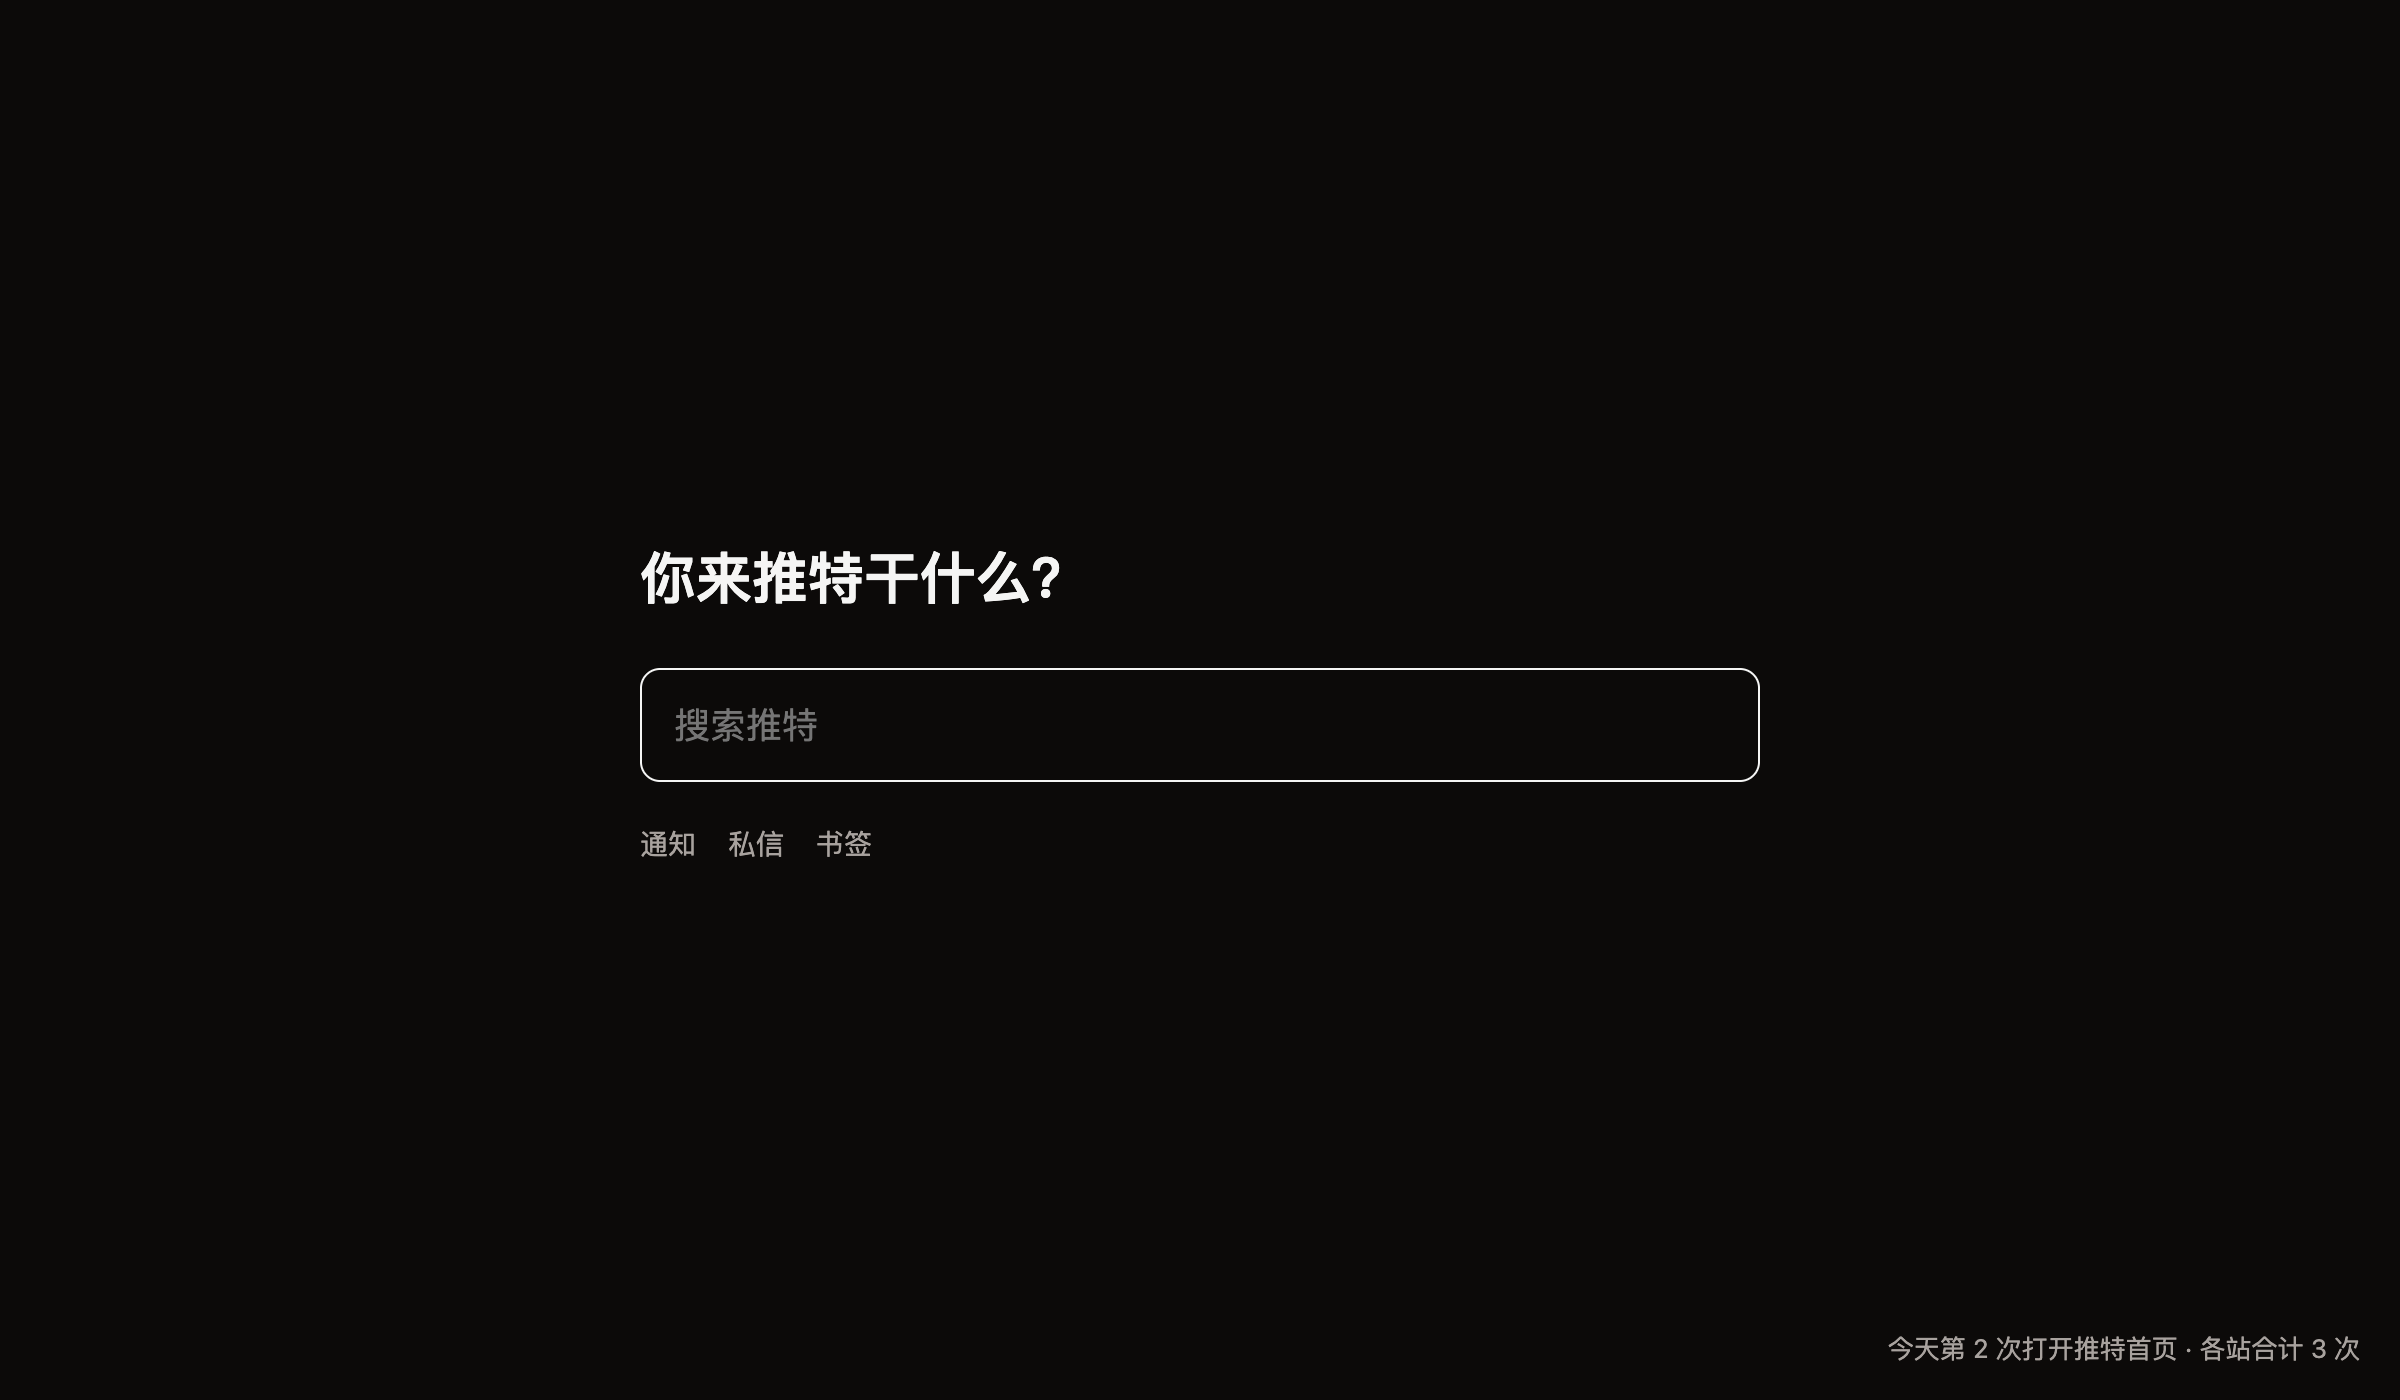
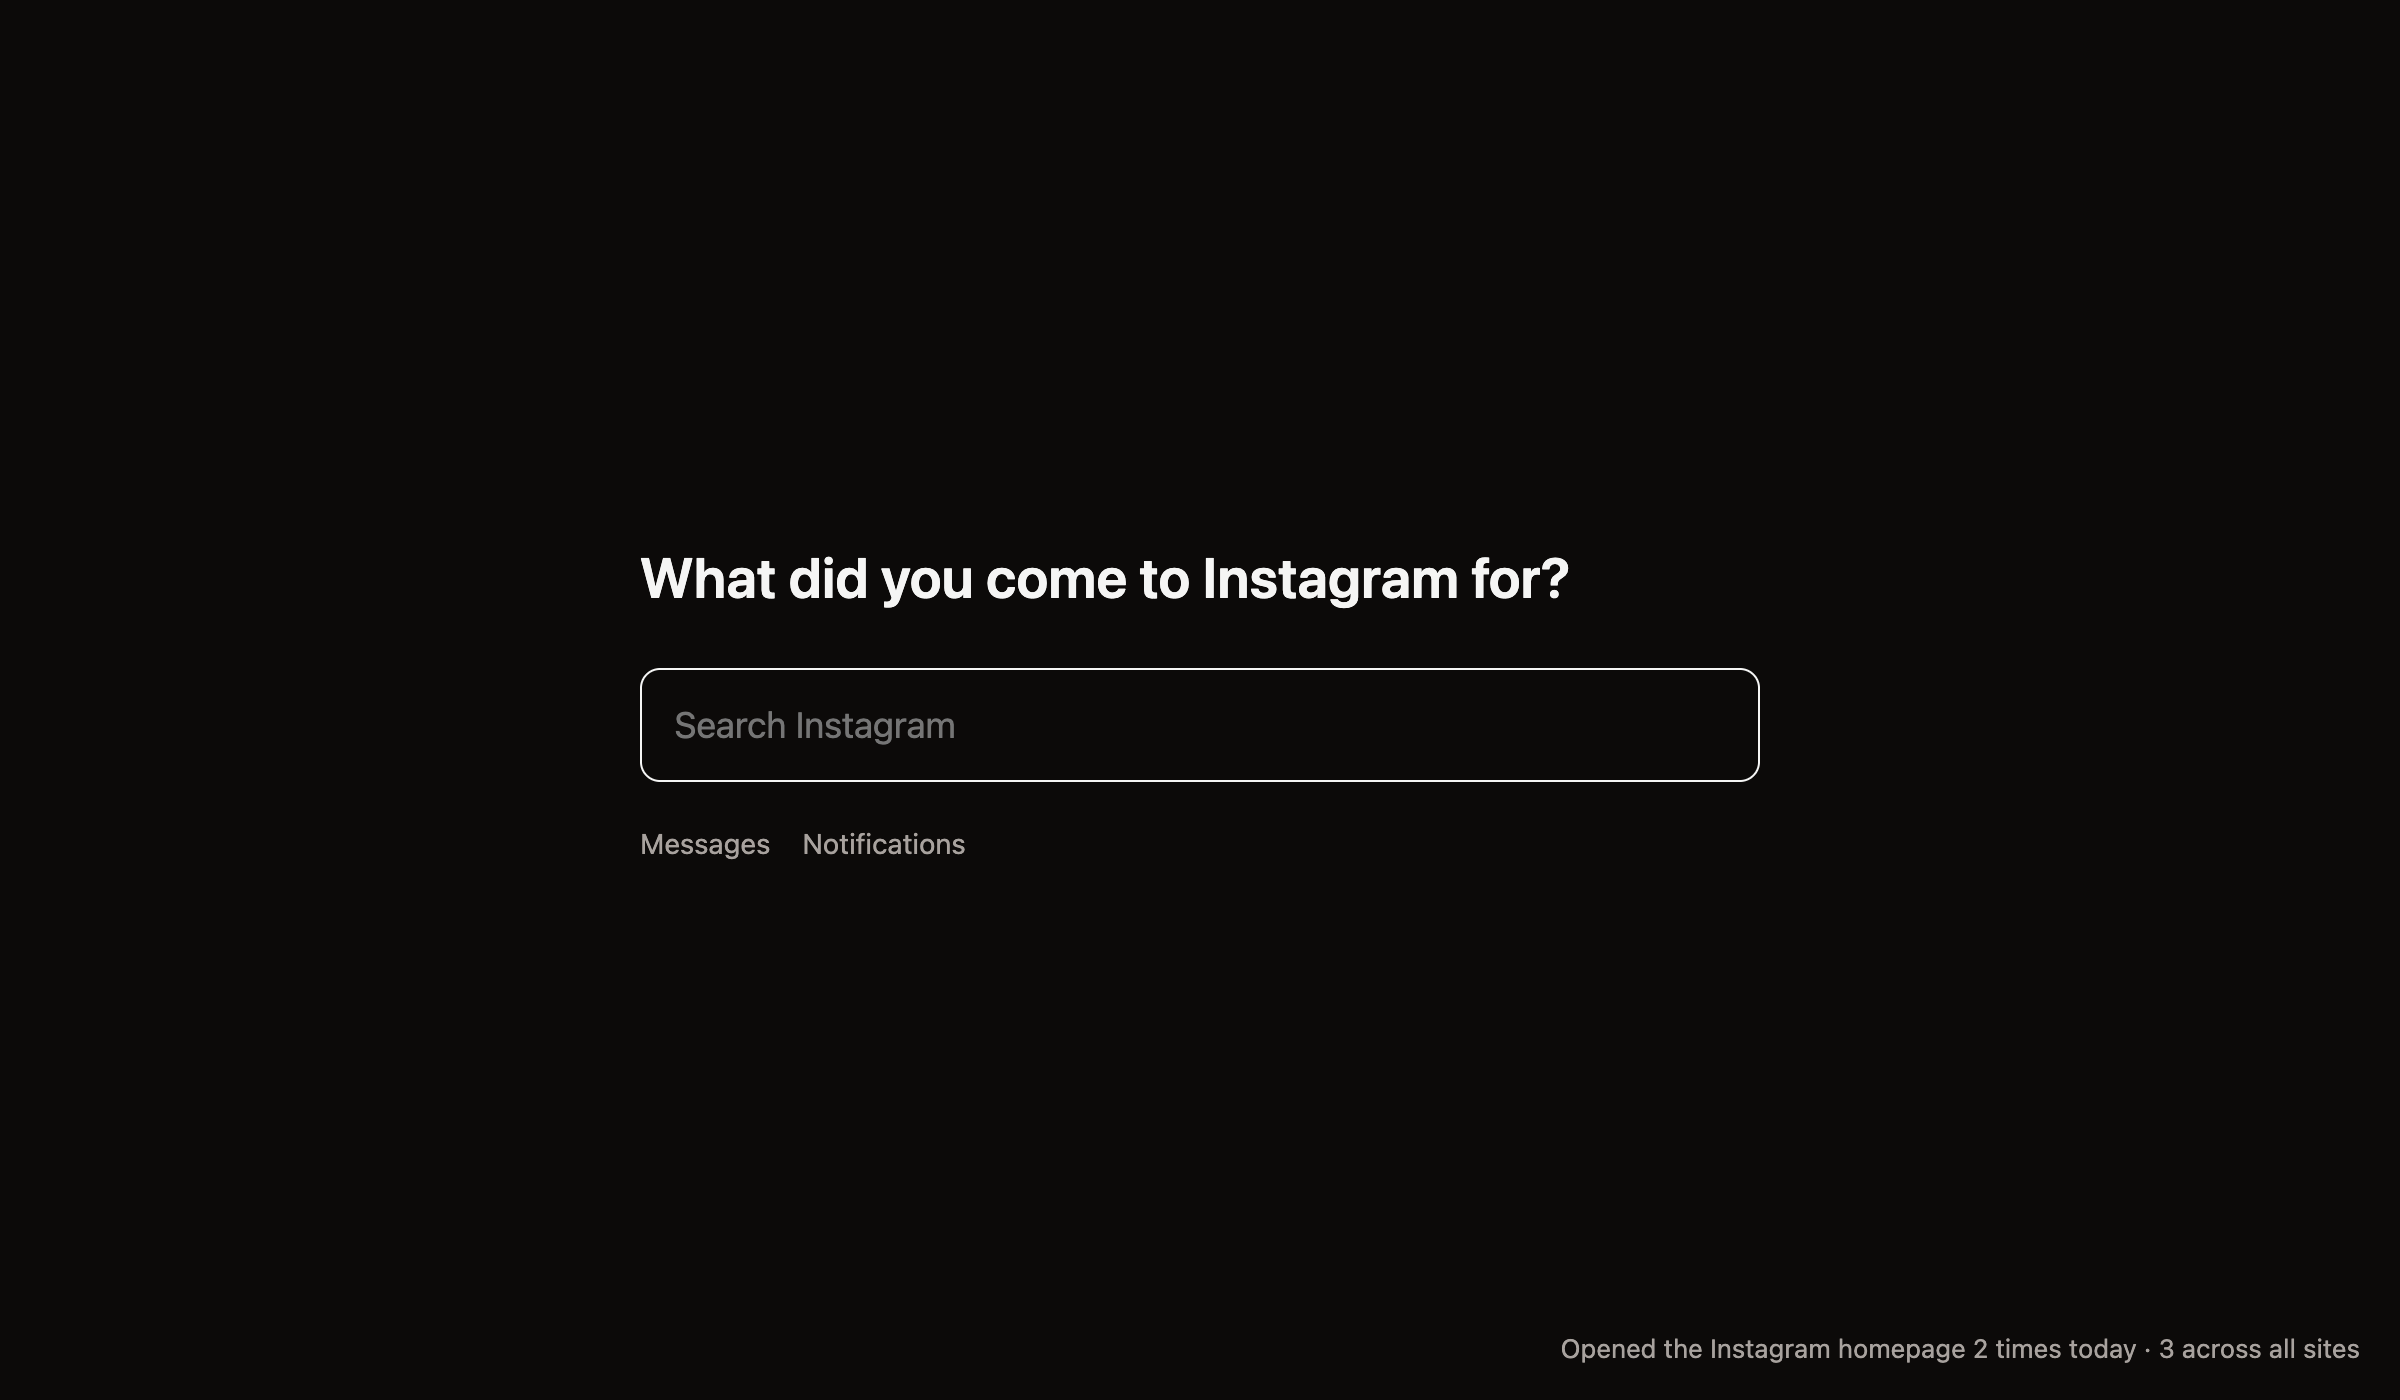
docs: English screenshots, Instagram in README; ignore packed extension files

diff --git a/README.md b/README.md
@@ -1,14 +1,14 @@
 # Feed Gate
 
-A Chrome extension that puts an intent gate in front of the home feeds of X (Twitter), Bilibili, Zhihu and Xiaohongshu (RedNote).
+A Chrome extension that puts an intent gate in front of the home feeds of X (Twitter), Bilibili, Zhihu, Xiaohongshu (RedNote) and Instagram.
 
-Open one of those homepages and you don't get an algorithmic feed. You get one question: *"What are you here for?"* Type what you came for and you land straight on the site's search results. Quick links take you to notifications, messages and other non-feed pages. There is no "just browse" button.
+Open one of those homepages and you don't get an algorithmic feed. You get one question: *"What did you come here for?"* Type what you came for and you land straight on the site's search results. Quick links take you to notifications, messages and other non-feed pages. There is no "just browse" button.
 
 | Light | Dark |
 |---|---|
-| ![Gate page in light mode, on Bilibili](docs/images/gate-light.png) | ![Gate page in dark mode, on X](docs/images/gate-dark.png) |
+| ![Gate page in light mode, on Bilibili](docs/images/gate-light.png) | ![Gate page in dark mode, on Instagram](docs/images/gate-dark.png) |
 
-The gate UI is in Chinese. The heading reads "What are you here for on Bilibili?". The corner counter reads "3rd time opening the Bilibili homepage today · 4 across all sites".
+The corner counter shows how many times you reached for each feed today.
 
 ## Why
 
@@ -29,14 +29,15 @@ The distraction usually starts with a habit: you type `x.com` or `bilibili.com` 
 | Bilibili | `www.bilibili.com/` |
 | Zhihu | `www.zhihu.com/` |
 | Xiaohongshu | `www.xiaohongshu.com/`, `/explore` |
+| Instagram | `www.instagram.com/` |
 
-Only homepages are gated. Trending pages and sidebar recommendations on video pages are out of scope; see the design doc.
+Only homepages are gated. Trending pages, Instagram's Explore and Reels tabs, and sidebar recommendations on video pages are out of scope; see the design doc.
 
 To add a site, make all of these changes:
 - add an entry to `extension/sites.js`;
 - add its hosts to `host_permissions` in `manifest.json`;
 - add homepage and non-homepage cases to `test/sites.test.js`, including the explicit site id list;
-- update the `description` in `manifest.json`, which names the four sites.
+- update the `description` in `manifest.json`, which names the sites.
 
 ## How it works
 
@@ -53,7 +54,7 @@ The last two layers swap in the gate with `location.replace`, which replaces the
 ## Known behavior
 
 - Clicking the logo inside a site may show the feed for a split second before the gate replaces it. SPA navigations send no request, so they can only be caught after the fact.
-- X's web app has its own service worker, so typing `x.com` may flash the feed briefly for the same reason. It always ends on the gate.
+- Sites whose web app runs its own service worker (X does) may flash the feed briefly even when you type the URL, for the same reason. It always ends on the gate.
 - After being gated, pressing Back once takes you to the page you were on before.
 - Reloading the gate, or returning to it with Back or Forward, doesn't increase the counter. Only a real gated visit does.
 
